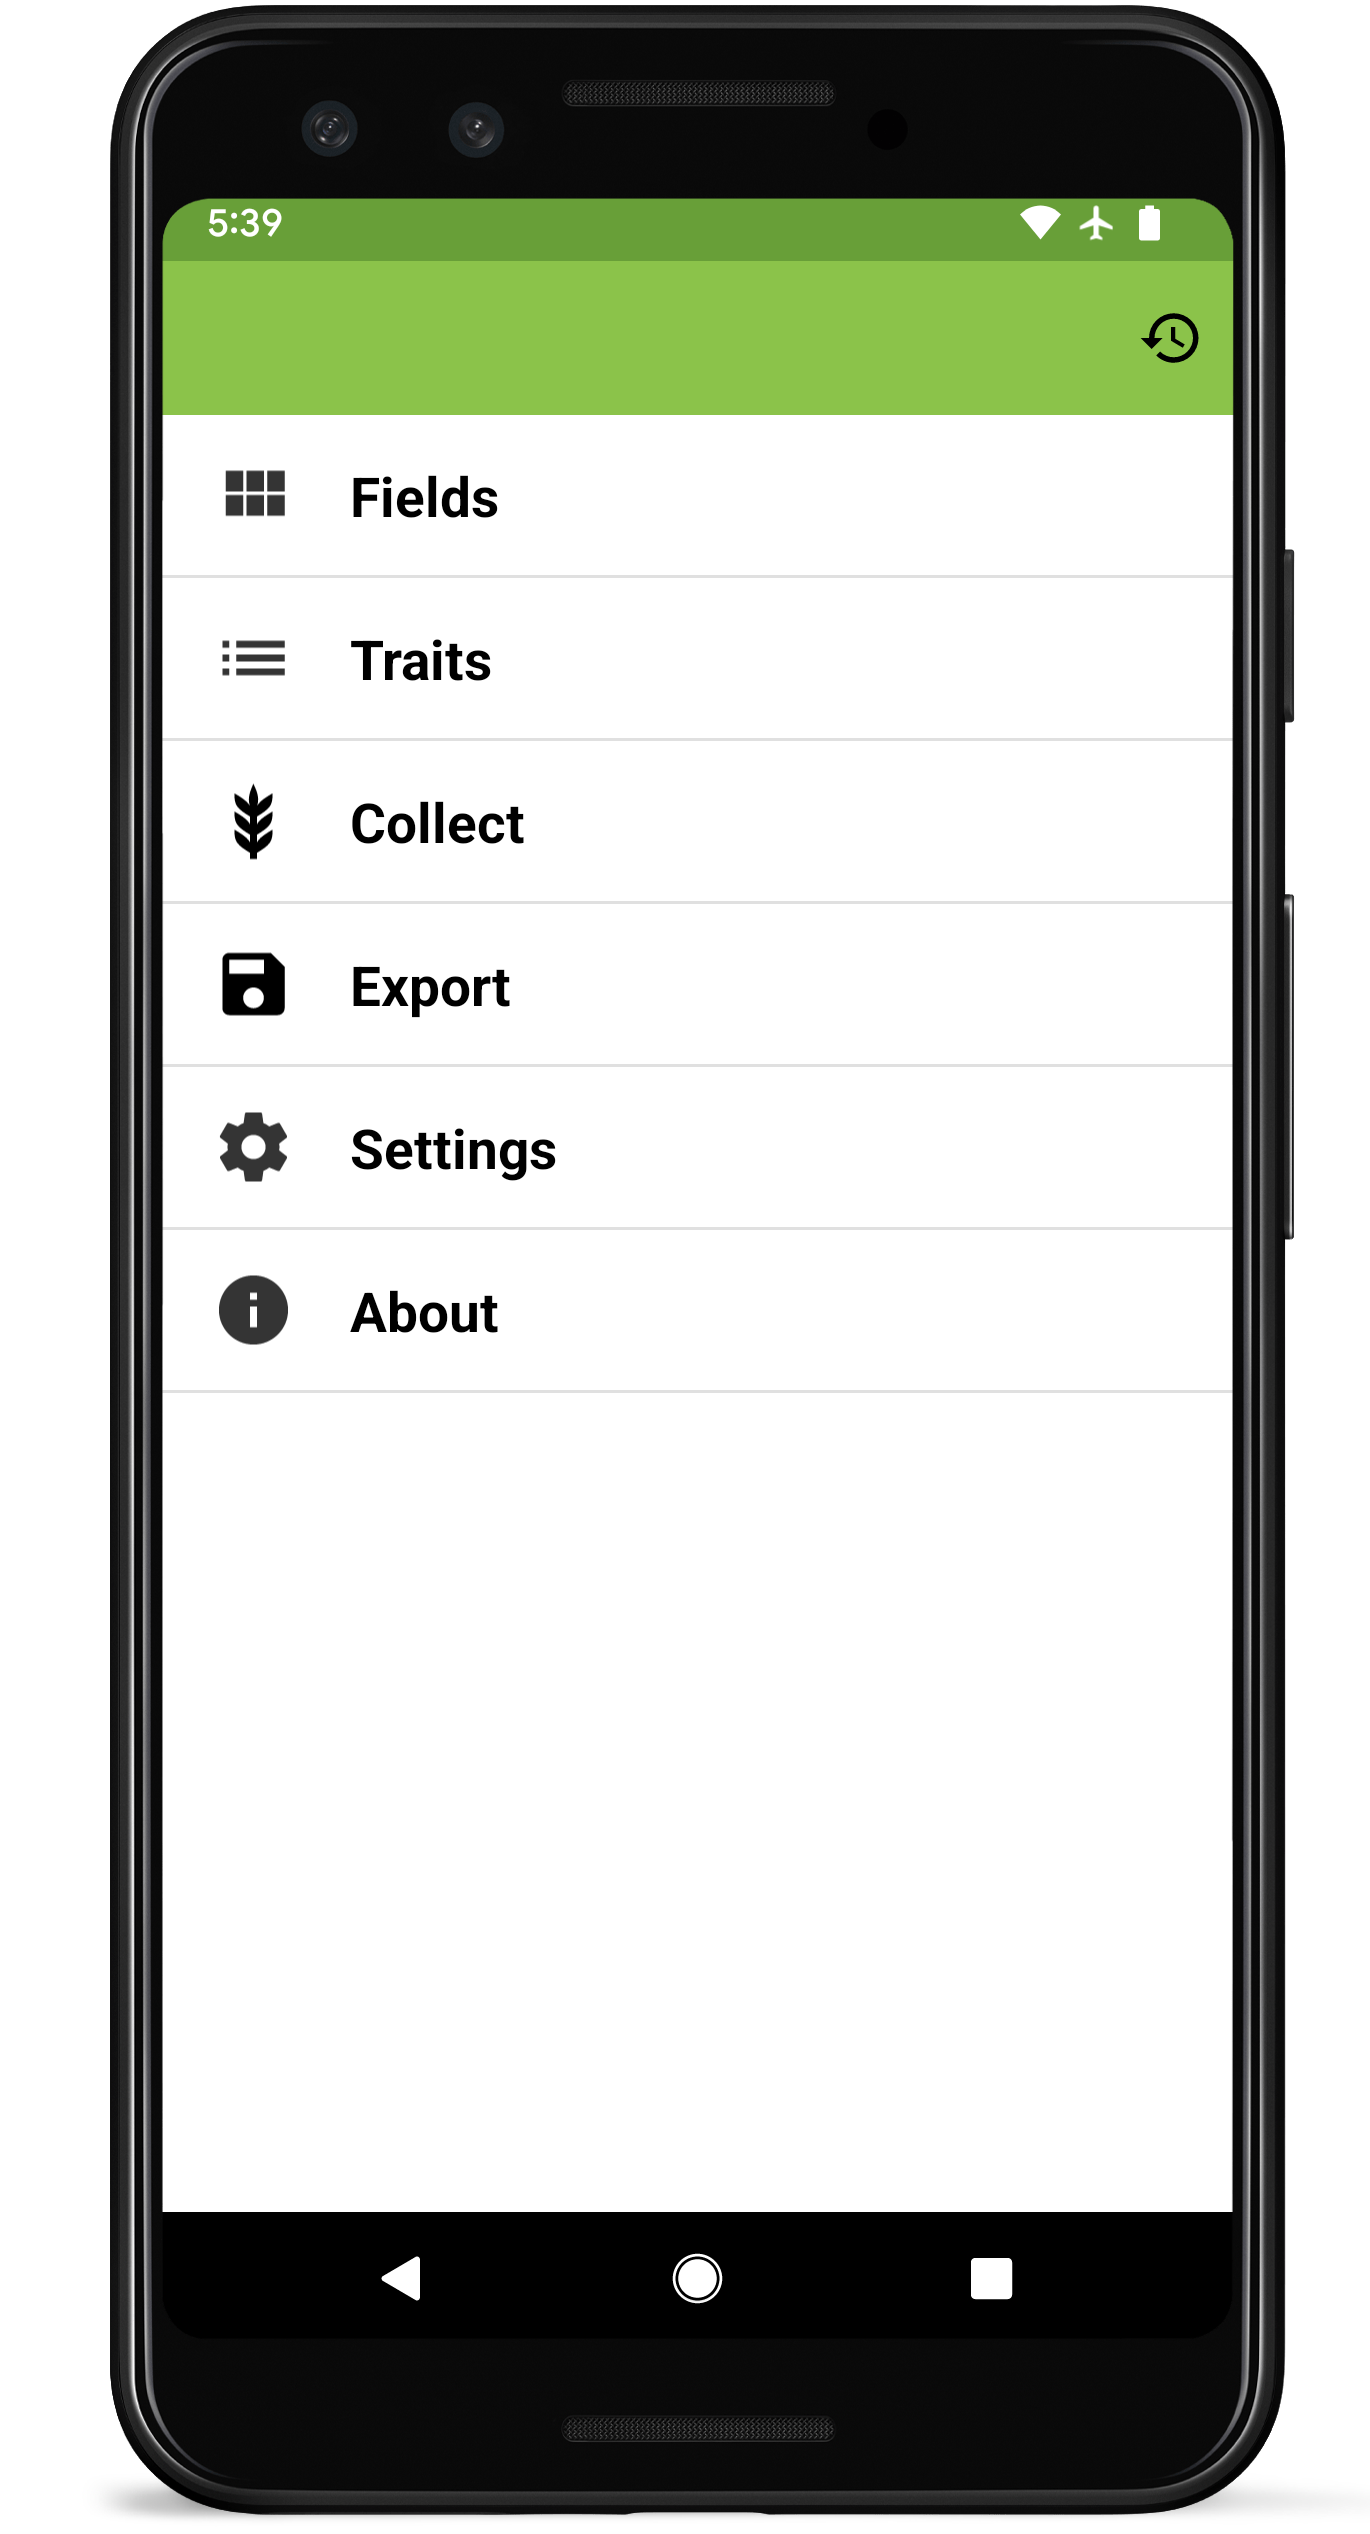
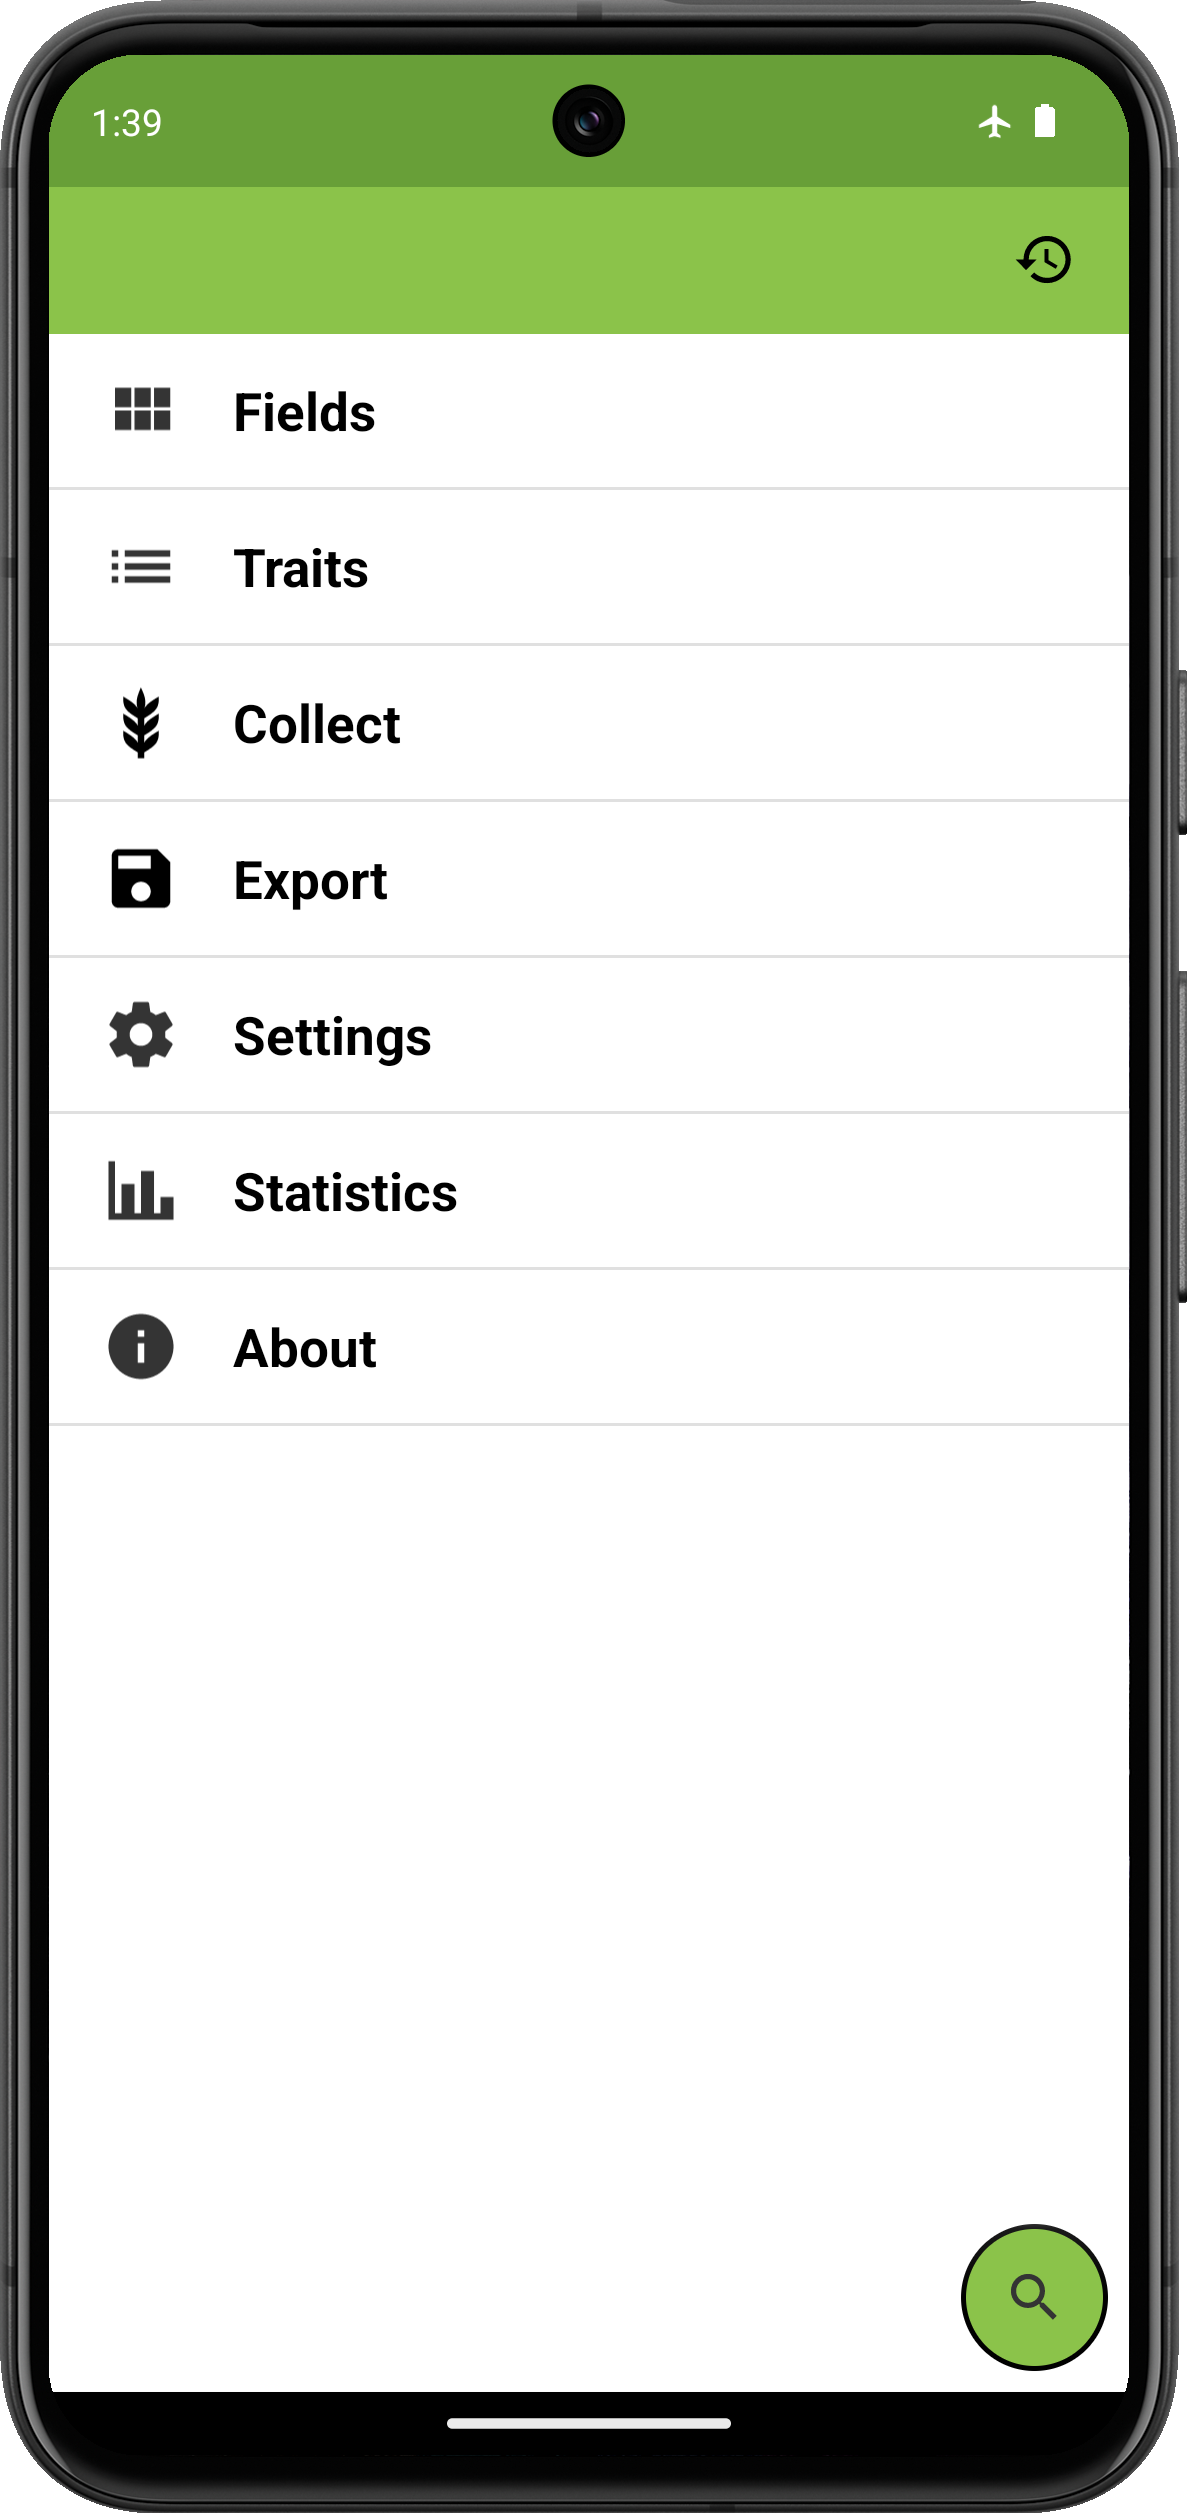
deploy: 02cbf6fedf7b6e4bea62d139b6e4cbe1d3076e6c

diff --git a/README.md b/README.md
@@ -12,19 +12,35 @@ consumer-grade technology to be used in environments where cost and
 inflexibility have been limiting factors. The source code for Field Book
 is available on [GitHub](https://github.com/PhenoApps/Field-Book).
 
+<figure align="center" class="image">
+  <img src="_static/images/home_framed.png" width="400px"> 
+  <figcaption><i>Field Book welcome screen</i></figcaption> 
+</figure>
+
 Getting Started
 ---------------
 
 Field Book can be downloaded from the [Google Play
 Store](https://play.google.com/store/apps/details?id=com.tracker.fieldbook)
 or can be installed manually from the latest [GitHub
-Release](https://github.com/PhenoApps/Field-Book/releases). After
-installing the app, all permissions should be accepted and sample data
-consisting of three fields and traits can be optionally loaded. The
-images in the documentation utilize the sample data.
+Release](https://github.com/PhenoApps/Field-Book/releases).
 
-Structure
----------
+Field Book will display a brief set of slides to introduce you to the app when you open it for the first time.
+
+<figure align="center" class="image">
+  <img src="_static/images/home_framed.png" width="400px"> 
+  <figcaption><i>Welcome and features screens</i></figcaption> 
+</figure>
+
+The intro ends with slides for required and optional setup. Set choices for the required permissions, and specify a storage location before proceeding from the required settings. Optional settings include the choice to load sample data (example fields and traits) and/or enable the tutorial. The images in this documentation will make use of the sample data.
+
+<figure align="center" class="image">
+  <img src="_static/images/home_framed.png" width="400px"> 
+  <figcaption><i>Welcome and features screens</i></figcaption> 
+</figure>
+
+When the intro finishes, Field Book will open to a home screen with links to the major sections of
+the app.
 
 <figure align="center" class="image">
   <img src="_static/images/home_framed.png" width="400px"> 
@@ -32,8 +48,7 @@ Structure
 </figure>
 
 
-Field Book contains a home screen with links to the major sections of
-the app. To use Field Book:
+To use Field Book:
 
 1.  Import your <a href="fields.md"><img style="vertical-align: middle;" src="_static/icons/home/view-module.png" width="20px"></a> [Fields](fields.md)
    
@@ -45,6 +60,8 @@ the app. To use Field Book:
    
 5.  <a href="export.md"><img style="vertical-align: middle;" src="_static/icons/home/save.png" width="20px"></a> [Export](export.md) data to a CSV (comma
     separated value) file
+
+You can also customize Field Book to your prefences in Settings, view your app usage Statistics, or learn more about the Field Book in the About section.
 
 The <img ref="changelog" style="vertical-align: middle;" src="_static/icons/home/history.png" width="20px"> Changelog can be accessed from the top toolbar to see new features and
 additions to the app.

diff --git a/storage.md b/storage.md
@@ -1,13 +1,12 @@
 Storage
 =======
 
-V6 V6 V6 V6 V6 V6 V6 V6
-------------------------
+Setup
+-----
 
-After installing and opening the app, you will be asked to create a new
-folder and define it as the **Storage location** on the device where
-files will be written. In Field Book this step is required. The selected
-**Storage location** can be changed in the
+When installing and opening the app for the first time, you will be asked to select
+or create a folder on the device as the **Storage location** where Field Book app
+files will be written. The selected **Storage location** can be changed in the
 <a href="settings-general.md"><img style="vertical-align: middle;" src="_static/icons/home/cog.png" width="20px"></a> [General Settings](settings-general.md).
 
 <figure align="center" class="image">
